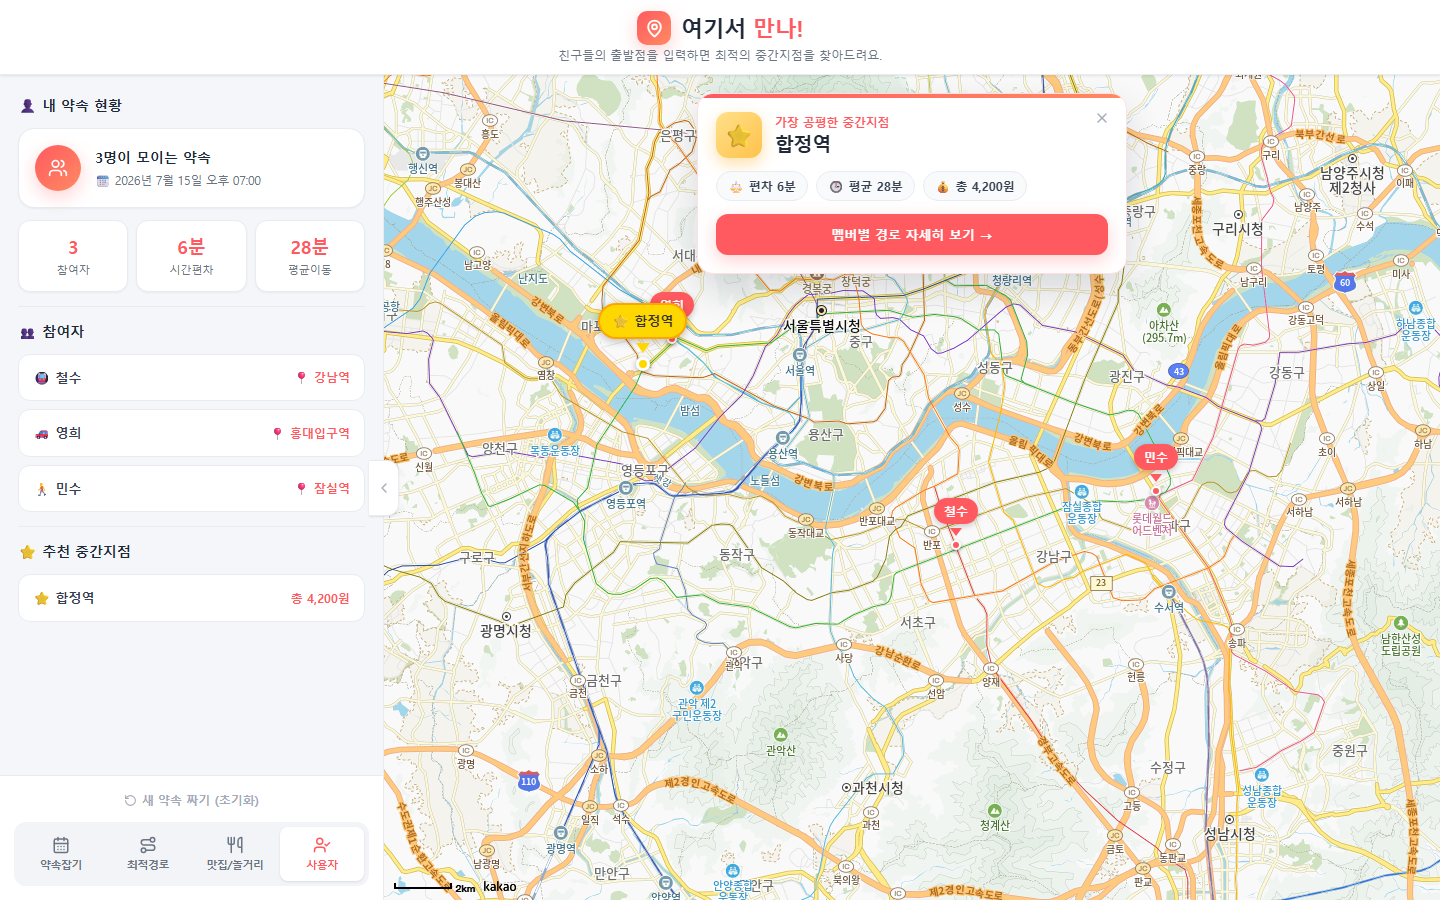
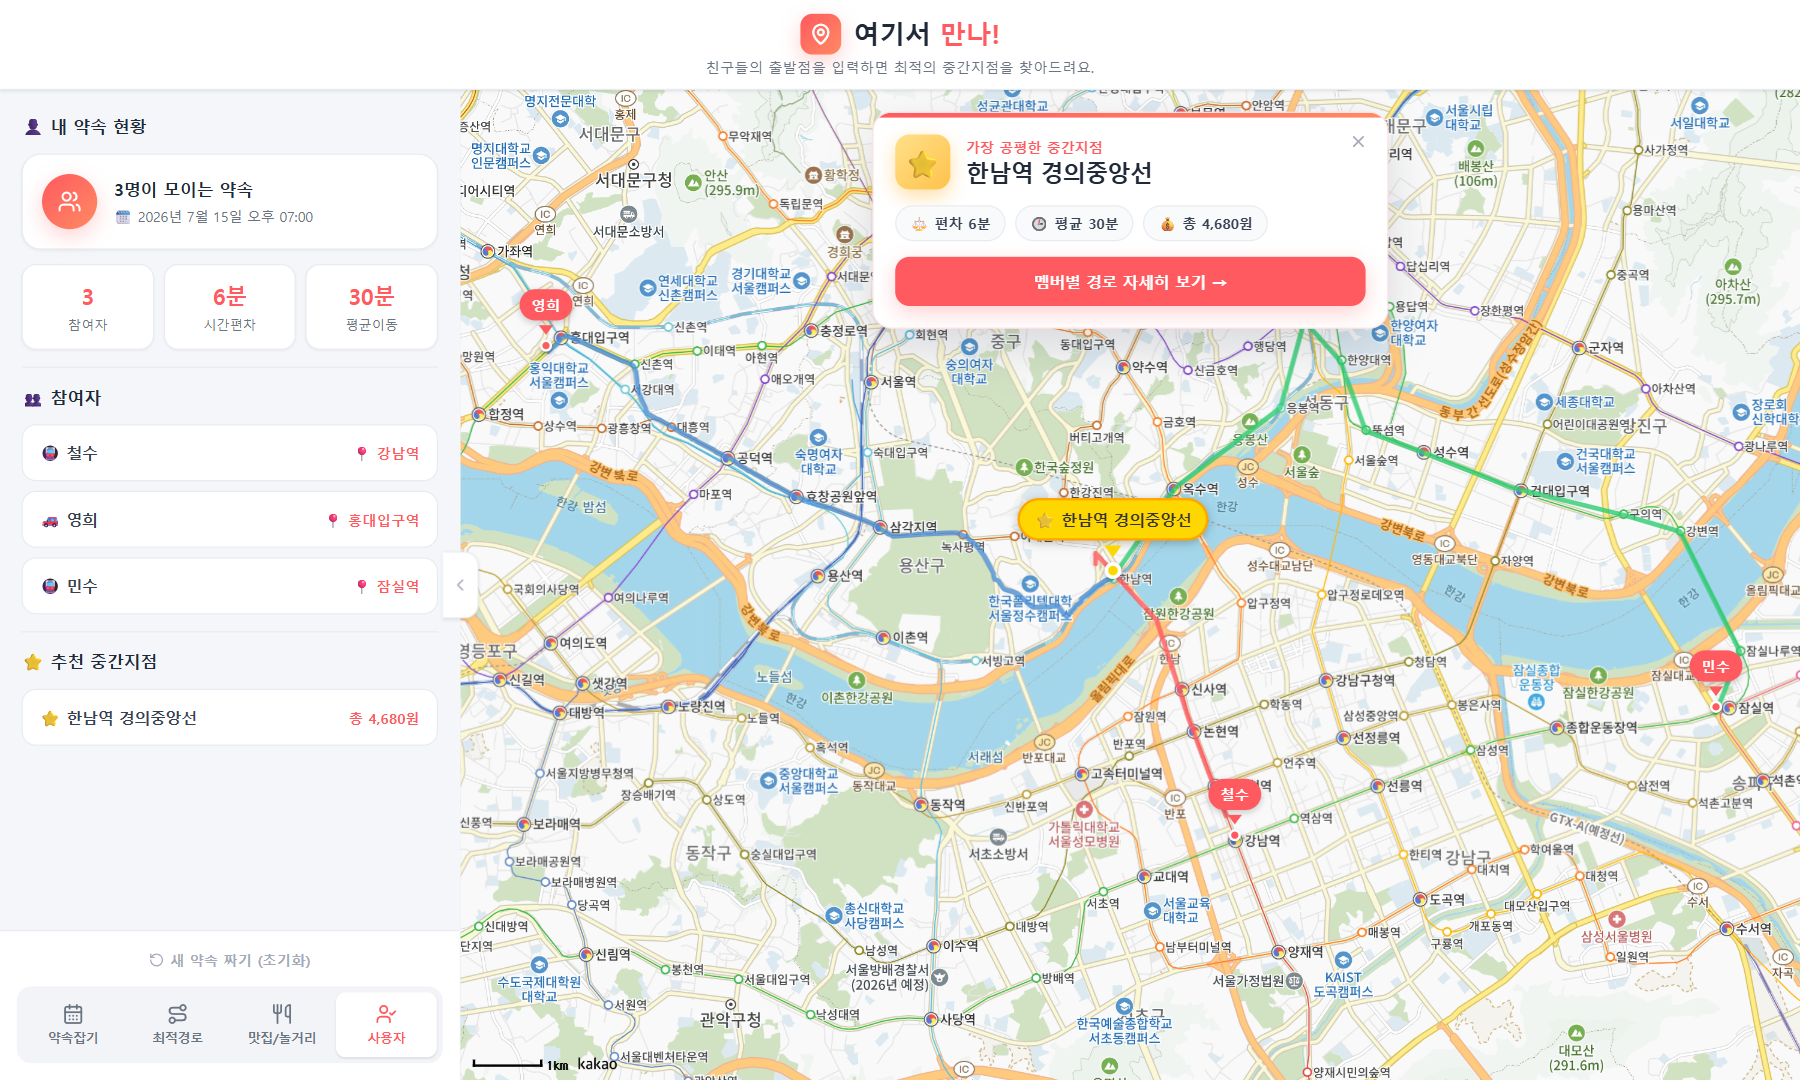
docs: README 대표 이미지를 경로선이 보이는 화면으로 교체
- 참여자 3명(강남/홍대입구/잠실)의 색상별 경로선이 중간지점(한남역)으로
  모이는 실제 계산 결과 화면으로 스크린샷 갱신
- 모바일 반응형 항목을 기능 표로 이동(향후 계획에서 제거)
- .env.example 추가, 제출서류/ gitignore 처리

diff --git a/README.md b/README.md
@@ -33,6 +33,7 @@
 | 🚄 **장거리 대응** | 서울↔부산 같은 도시간은 KTX/고속버스 기준으로 추정(도시내 API 한계 보완) |
 | 🍽️ **주변 인프라 검색** | 중간지점 기준 **반경(500m~3km) + 카테고리**로 맛집·카페·놀거리·명소 검색 (지도에 반경 원·마커) |
 | 💾 **자동 저장** | localStorage로 새로고침해도 상태·지도 복원 (버전 마이그레이션 포함) |
+| 📱 **모바일 반응형** | 768px 이하에서 지도 상단 / 조작 패널 하단 세로 분할, `100dvh`로 주소창 잘림 방지 |
 
 <p align="center">
   <img src="docs/screenshot-appointment.png" alt="약속잡기 패널" width="380" />
@@ -110,7 +111,6 @@ src/
 
 ## 📌 알려진 한계 & 향후 계획
 
-- **모바일 반응형**: 현재 데스크톱 레이아웃 위주 → 하단 시트 형태의 모바일 UI 예정
 - **공유/협업**: 현재는 한 기기에서 입력 → 약속 링크 공유 + 백엔드(BFF)로 API 키 프록시 계획
 - **정확도**: 도시간 대중교통은 추정값 → 공공데이터포털(TAGO 열차·버스) API로 고도화 여지
 - **평점**: 카카오 로컬 API는 평점 미제공 → 거리·카테고리·상세링크로 대체